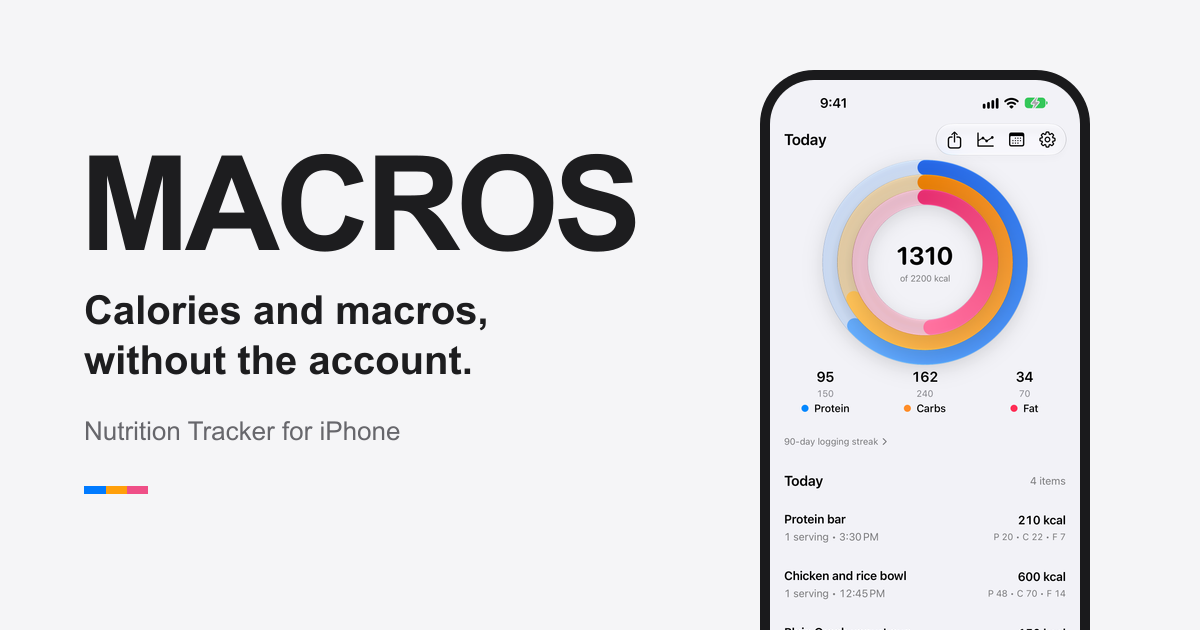
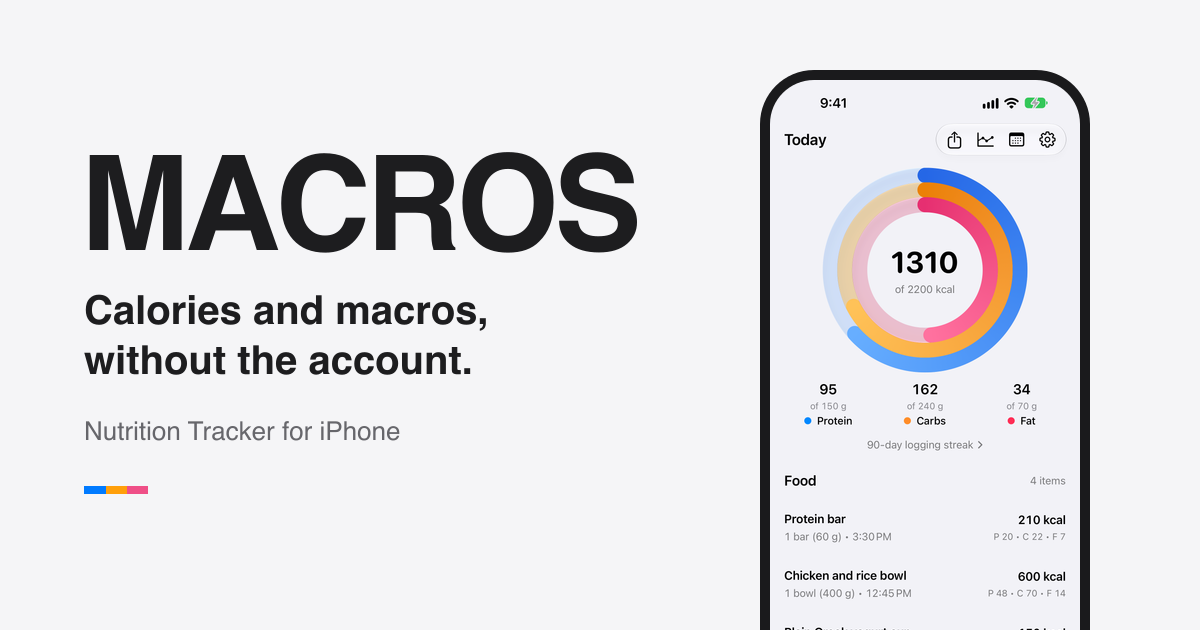
web: refresh app screenshots for build 27

diff --git a/web/src/data/site.ts b/web/src/data/site.ts
@@ -5,6 +5,7 @@ import appInsightsImage from '../assets/app-images/app-insights.png';
 import appScanReviewImage from '../assets/app-images/app-scan-review.png';
 import appSettingsImage from '../assets/app-images/app-settings.png';
 import appSharingImage from '../assets/app-images/app-sharing.png';
+import appSharingPersonImage from '../assets/app-images/app-sharing-person.png';
 import appWidgetsImage from '../assets/app-images/app-widgets.png';
 
 export const site = {
@@ -187,38 +188,43 @@ export const site = {
 	],
 	heroShowcase: {
 		src: appHomeImage,
-		alt: 'MACROS dashboard with a full day of food logged',
+		alt: 'MACROS dashboard with a full day logged, macro goals, and a centered streak',
 	},
 	screenshots: [
 		{
 			src: appHomeImage,
-			alt: 'MACROS dashboard with today’s calories and protein, carbs, and fat rings',
-			title: 'Daily macro rings',
+			alt: 'MACROS dashboard with a full day logged, Food list, macro rings, goals, and streak',
+			title: 'Today’s food and macros',
 		},
 		{
 			src: appAddFoodImage,
-			alt: 'MACROS add food screen with search, common foods, barcode scan, and label scan actions',
-			title: 'Search, scan, or add food',
+			alt: 'Add Food with search, recent and common foods, and camera actions',
+			title: 'Add food',
 		},
 		{
 			src: appScanReviewImage,
-			alt: 'MACROS nutrition label scan with the values ready to review before logging',
-			title: 'Review label scans',
+			alt: 'Nutrition label scan result in the camera with the detected serving and nutrients ready to review',
+			title: 'Review a label scan',
 		},
 		{
 			src: appHistoryImage,
-			alt: 'MACROS history screen with a full week of logged food progress',
-			title: 'Weekly history',
+			alt: 'History for November 2 with the week selector, daily macro totals, and logged foods',
+			title: 'Daily history',
 		},
 		{
 			src: appInsightsImage,
-			alt: 'MACROS insights with a 30-day weight trend, averages, and a calorie chart',
+			alt: 'Pro Insights showing a 30-day weight trend, calorie and macro averages, and a calorie chart',
 			title: 'Insights and trends (Pro)',
 		},
 		{
 			src: appSharingImage,
-			alt: 'MACROS sharing dashboard with daily rings for two people',
-			title: 'Sharing circle',
+			alt: 'Sharing list with Alex and Sam, their daily macro totals, and what each person sees',
+			title: 'Share with your people',
+		},
+		{
+			src: appSharingPersonImage,
+			alt: 'Alex’s shared day with macro rings, goals, food entries, and sharing controls',
+			title: 'What Alex shares',
 		},
 		{
 			src: appWidgetsImage,
@@ -227,8 +233,8 @@ export const site = {
 		},
 		{
 			src: appSettingsImage,
-			alt: 'MACROS settings with MACROS Pro, daily goals, and app preferences',
-			title: 'Goals and settings',
+			alt: 'Settings showing MACROS Pro, calorie and macro goals, and food suggestions',
+			title: 'Settings and goals',
 		},
 	],
 	supportChecklist: [

diff --git a/README.md b/README.md
@@ -28,31 +28,39 @@ The app stays local-first: no required account for normal tracking, on-device fo
 ### Settings
 
 <p align="center">
-  <img src="web/src/assets/app-images/app-settings.png" alt="Settings screen with daily goals and saved foods" width="220" />
-  &nbsp;&nbsp;
-  <img src="web/src/assets/app-images/app-full-unlock.png" alt="Full Unlock purchase screen" width="220" />
+  <img src="web/src/assets/app-images/app-settings.png" alt="Settings with MACROS Pro, daily goals, and food suggestions" width="220" />
+</p>
+
+### Label review
+
+<p align="center">
+  <img src="web/src/assets/app-images/app-scan-review.png" alt="Nutrition label scan result ready to review" width="220" />
 </p>
 
 ### Insights
 
 <p align="center">
-  <img src="web/src/assets/app-images/app-insights.png" alt="Insights screen with nutrition charts and macro trends" width="220" />
+  <img src="web/src/assets/app-images/app-insights.png" alt="Pro Insights with 30-day nutrition charts and macro trends" width="220" />
 </p>
 
 ### History
 
 <p align="center">
-  <img src="web/src/assets/app-images/app-history.png" alt="History screen showing a full logged week" width="220" />
-  &nbsp;&nbsp;
-  <img src="web/src/assets/app-images/app-calendar.png" alt="Expanded calendar history screen" width="220" />
+  <img src="web/src/assets/app-images/app-history.png" alt="Daily history with macro totals and logged foods" width="220" />
 </p>
 
 ### Sharing
 
 <p align="center">
-  <img src="web/src/assets/app-images/app-sharing-settings.png" alt="Sharing settings with invite link controls" width="220" />
+  <img src="web/src/assets/app-images/app-sharing.png" alt="Sharing list with Alex and Sam and their daily macro totals" width="220" />
   &nbsp;&nbsp;
-  <img src="web/src/assets/app-images/app-share.png" alt="Native iOS share sheet for daily summary" width="220" />
+  <img src="web/src/assets/app-images/app-sharing-person.png" alt="Alex’s shared macro rings, foods, and sharing controls" width="220" />
+</p>
+
+### Widgets
+
+<p align="center">
+  <img src="web/src/assets/app-images/app-widgets.png" alt="MACROS small and medium Home Screen widgets" width="220" />
 </p>
 
 ## Features

diff --git a/web/web-changes-log.md b/web/web-changes-log.md
@@ -2,6 +2,13 @@
 
 `web-changes-log.md` is the web-project history file for implemented work, bugs found, deployment/config decisions, and validation results.
 
+## 2026-11-02 Build 27 App Screenshot Refresh
+
+- Replaced the home, Add Food, label review, history, Pro Insights, settings, and Sharing list screenshots with iPhone 18 Pro Max captures from the build 27 Debug app.
+- Added the new Alex person-sharing screen to the website and README. Sharing uses the temporary `-sharingUIHarness` Debug-only fixture with Alex and Sam; no Convex production data or disposable server profiles were used.
+- Compared a fresh Home Screen capture from build 27 with the October 30 widget image. The small and medium widget appearance is unchanged, so kept `app-widgets.png`.
+- Updated screenshot titles and alt text to describe the screens, aligned README images with the website set, removed unused calendar, share-sheet, sharing-settings, and Full Unlock images, and regenerated `public/og.png` from the new home screenshot.
+
 ## 2026-10-30 Final App Store Captures
 
 - Replaced the showcase screenshots with final App Store captures, added label-review, sharing, and widget screens, and regenerated `public/og.png` from the updated dashboard.
